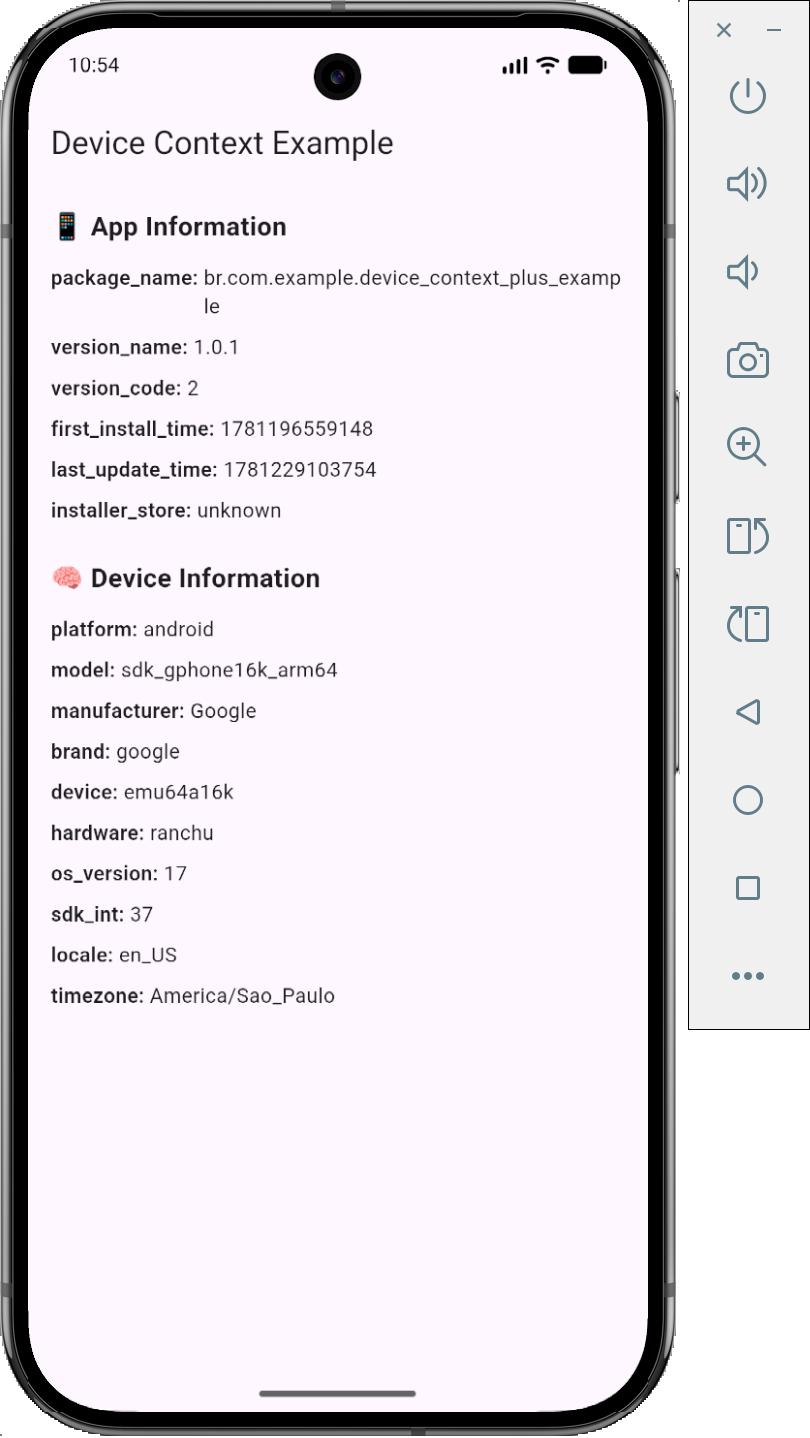
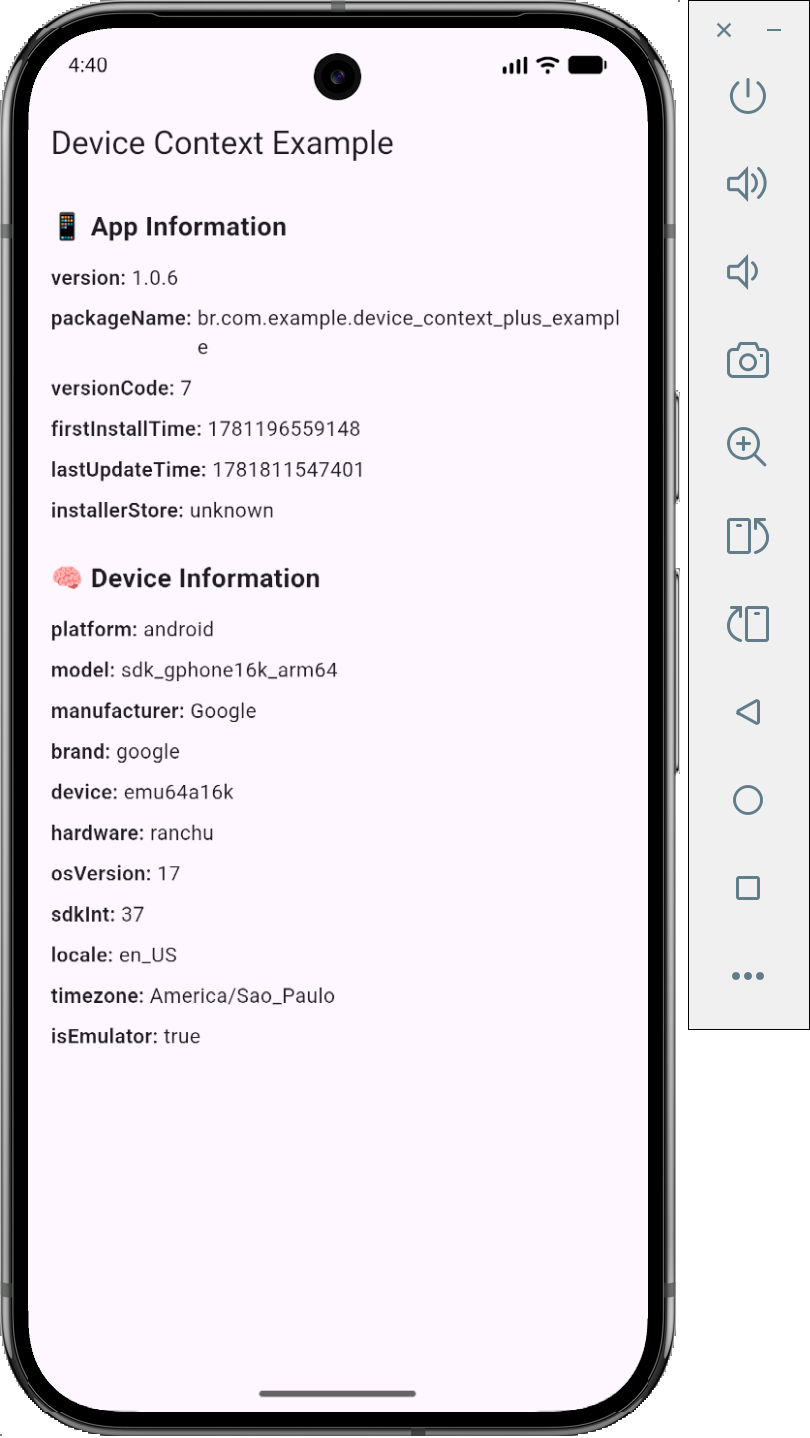
Determines if the app is running in an emulator/simulator environment with propierty isEmulator

diff --git a/ios/device_context_plus/Sources/device_context_plus/DeviceContextPlusPlugin.swift b/ios/device_context_plus/Sources/device_context_plus/DeviceContextPlusPlugin.swift
@@ -80,6 +80,16 @@ public class DeviceContextPlusPlugin: NSObject, FlutterPlugin {
 
   /**
    * Returns device and operating system information.
+    * Includes:
+      * - platform (fixed to "ios")
+      * - model
+      * - name
+      * - system_name
+      * - system_version 
+      * - locale
+      * - timezone
+      * - isEmulator (boolean indicating if running in simulator)
+    *
    */
   private func getDevice() -> [String: Any] {
     let device = UIDevice.current
@@ -91,7 +101,8 @@ public class DeviceContextPlusPlugin: NSObject, FlutterPlugin {
       "system_name": device.systemName,
       "system_version": device.systemVersion,
       "locale": Locale.current.identifier,
-      "timezone": TimeZone.current.identifier
+      "timezone": TimeZone.current.identifier,
+      "isEmulator": isEmulator(),
     ]
   }
 
@@ -140,5 +151,16 @@ public class DeviceContextPlusPlugin: NSObject, FlutterPlugin {
     }
 
     return accessGroup.components(separatedBy: ".").first
+  }
+
+  /**
+   * Determines if the app is running in an emulator/simulator environment.
+   */
+  private func isEmulator() -> Bool {
+    #if targetEnvironment(simulator)
+      return true
+    #else
+      return false
+    #endif
   }
 }

diff --git a/android/src/main/kotlin/br/com/example/device_context_plus/DeviceContextPlusPlugin.kt b/android/src/main/kotlin/br/com/example/device_context_plus/DeviceContextPlusPlugin.kt
@@ -107,6 +107,7 @@ class DeviceContextPlusPlugin : FlutterPlugin, MethodChannel.MethodCallHandler {
      * - sdk_int
      * - locale
      * - timezone
+     * - isEmulator (boolean indicating if running in emulator)
      */
     private fun getDevice(): Map<String, Any> {
         return mapOf(
@@ -119,7 +120,8 @@ class DeviceContextPlusPlugin : FlutterPlugin, MethodChannel.MethodCallHandler {
             "os_version" to Build.VERSION.RELEASE,
             "sdk_int" to Build.VERSION.SDK_INT,
             "locale" to Locale.getDefault().toString(),
-            "timezone" to TimeZone.getDefault().id
+            "timezone" to TimeZone.getDefault().id,
+            "isEmulator" to isEmulator,
         )
     }
 
@@ -129,4 +131,22 @@ class DeviceContextPlusPlugin : FlutterPlugin, MethodChannel.MethodCallHandler {
     override fun onDetachedFromEngine(binding: FlutterPlugin.FlutterPluginBinding) {
         channel.setMethodCallHandler(null)
     }
+
+    /**
+     * Determines if the app is running in an emulator/simulator environment.
+     */
+    private val isEmulator: Boolean
+        get() = ((Build.BRAND.startsWith("generic") && Build.DEVICE.startsWith("generic"))
+            || Build.FINGERPRINT.startsWith("generic")
+            || Build.FINGERPRINT.startsWith("unknown")
+            || Build.HARDWARE.contains("goldfish")
+            || Build.HARDWARE.contains("ranchu")
+            || Build.MODEL.contains("google_sdk")
+            || Build.MODEL.contains("Emulator")
+            || Build.MODEL.contains("Android SDK built for x86")
+            || Build.MANUFACTURER.contains("Genymotion")
+            || Build.PRODUCT.contains("sdk")
+            || Build.PRODUCT.contains("vbox86p")
+            || Build.PRODUCT.contains("emulator")
+            || Build.PRODUCT.contains("simulator"))
 }

diff --git a/lib/models/info_device.dart b/lib/models/info_device.dart
@@ -32,6 +32,9 @@ class InfoDevice {
   /// Device timezone.
   final String? timezone;
 
+  /// Indicates if the app is running in an emulator/simulator (`android` or `ios`).
+  final bool isEmulator;
+
   /// Creates a new [InfoDevice] instance.
   InfoDevice({
     this.platform,
@@ -47,6 +50,7 @@ class InfoDevice {
     this.sdkInt,
     this.locale,
     this.timezone,
+    this.isEmulator = false,
   });
 
   /// Creates an instance from native map data.
@@ -65,6 +69,7 @@ class InfoDevice {
       sdkInt: map['sdk_int'],
       locale: map['locale'],
       timezone: map['timezone'],
+      isEmulator: map['isEmulator'] ?? false,
     );
   }
 }

diff --git a/example/lib/main.dart b/example/lib/main.dart
@@ -82,6 +82,7 @@ class _MyAppState extends State<MyApp> {
 
                   _buildItem('locale', data!.device.locale),
                   _buildItem('timezone', data!.device.timezone),
+                  _buildItem('isEmulator', data!.device.isEmulator),
                 ],
               ),
       ),

diff --git a/lib/device_context_plus.dart b/lib/device_context_plus.dart
@@ -56,6 +56,7 @@ class DeviceContextPlus {
   /// - Manufacturer (Android)
   /// - System name (iOS)
   /// - Locale and timezone
+  /// - isEmulator (boolean indicating if running in emulator/simulator)
   ///
   /// Example:
   /// ```dart

diff --git a/CHANGELOG.md b/CHANGELOG.md
@@ -4,6 +4,15 @@ All notable changes to this project will be documented in this file.
 
 ---
 
+## [1.0.6] - Stable
+
+### 📚 New property
+
+- ✅ Adicionado um novo parametro para iOS/Android na model `InfoDevice`
+  - `getDevice()` get the property -> `isEmulator`
+
+---
+
 ## [1.0.5] - Stable
 
 ### 📚 Documentation Improvements
@@ -117,7 +126,7 @@ All notable changes to this project will be documented in this file.
 
 ---
 
-## [1.0.2]
+## [1.0.2] - Beta
 
 ### 🛠 Melhoria de arquitetura
 
@@ -125,7 +134,7 @@ All notable changes to this project will be documented in this file.
 
 ---
 
-## [1.0.1]
+## [1.0.1] - Beta
 
 ### 🛠 Melhorias na documentação
 

diff --git a/README.md b/README.md
@@ -83,6 +83,7 @@ InfoAll(
     systemVersion: "26.5",
     locale: "en_BR",
     timezone: "America/Sao_Paulo",
+    isEmulator: true,
   ),
 );
 //Android
@@ -106,6 +107,7 @@ InfoAll(
     sdkInt: 34,
     locale: "pt_BR",
     timezone: "America/Sao_Paulo",
+    isEmulator: false,
   ),
 );
 ```
@@ -141,5 +143,5 @@ Add the plugin to your `pubspec.yaml`:
 
 ```yaml
 dependencies:
-  device_context_plus: ^1.0.5
+  device_context_plus: ^1.0.6
 ```